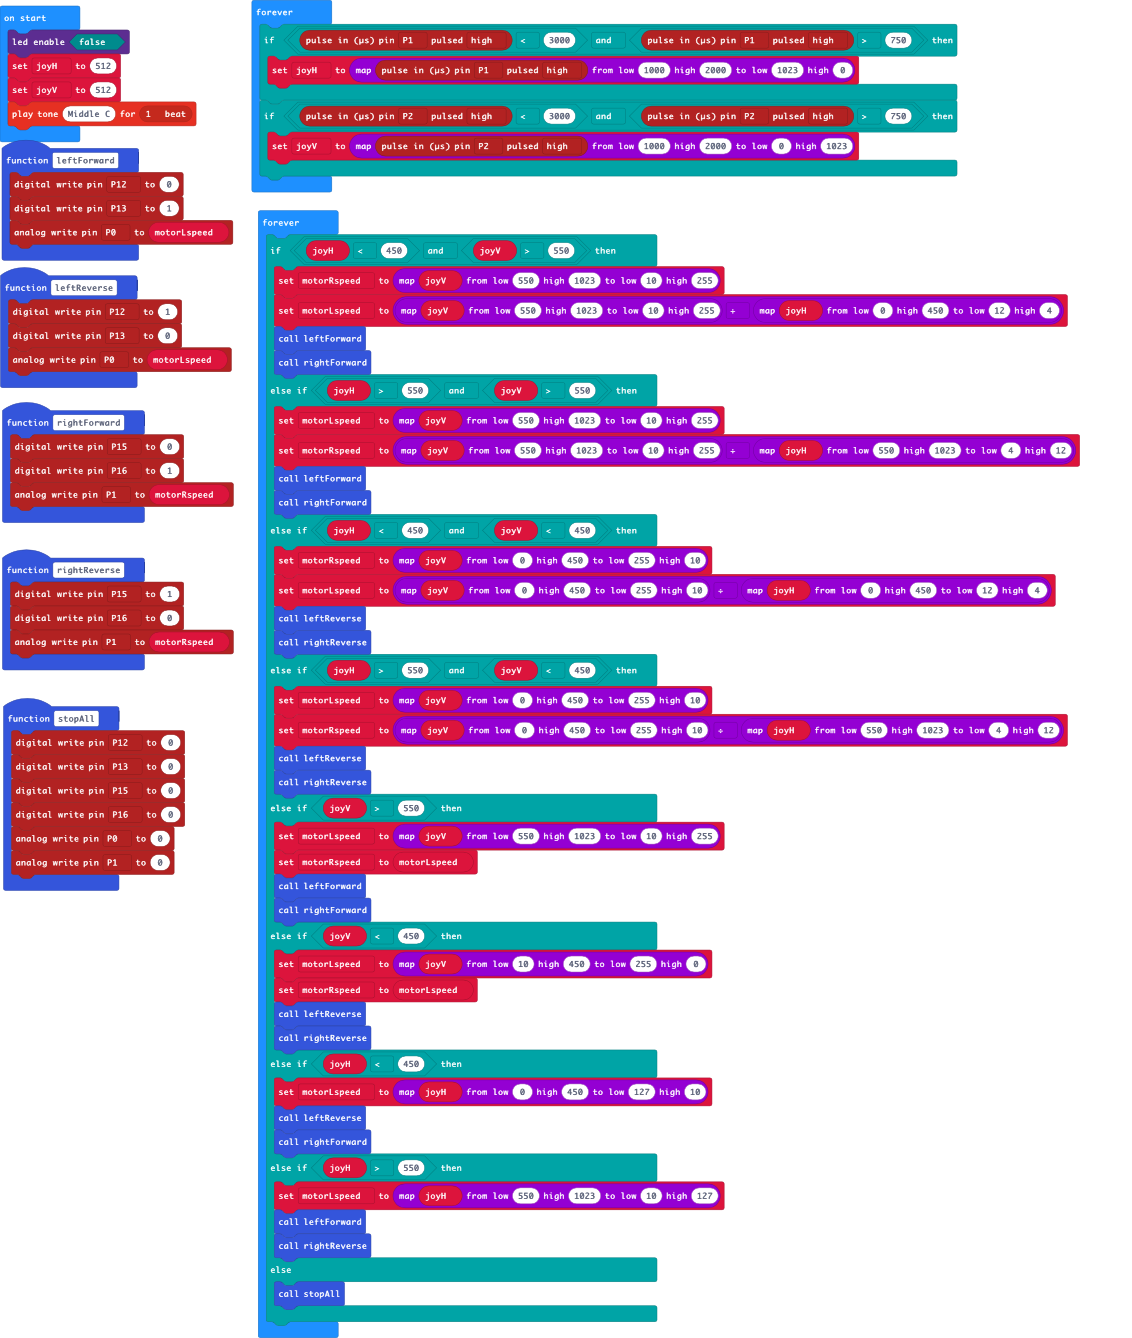
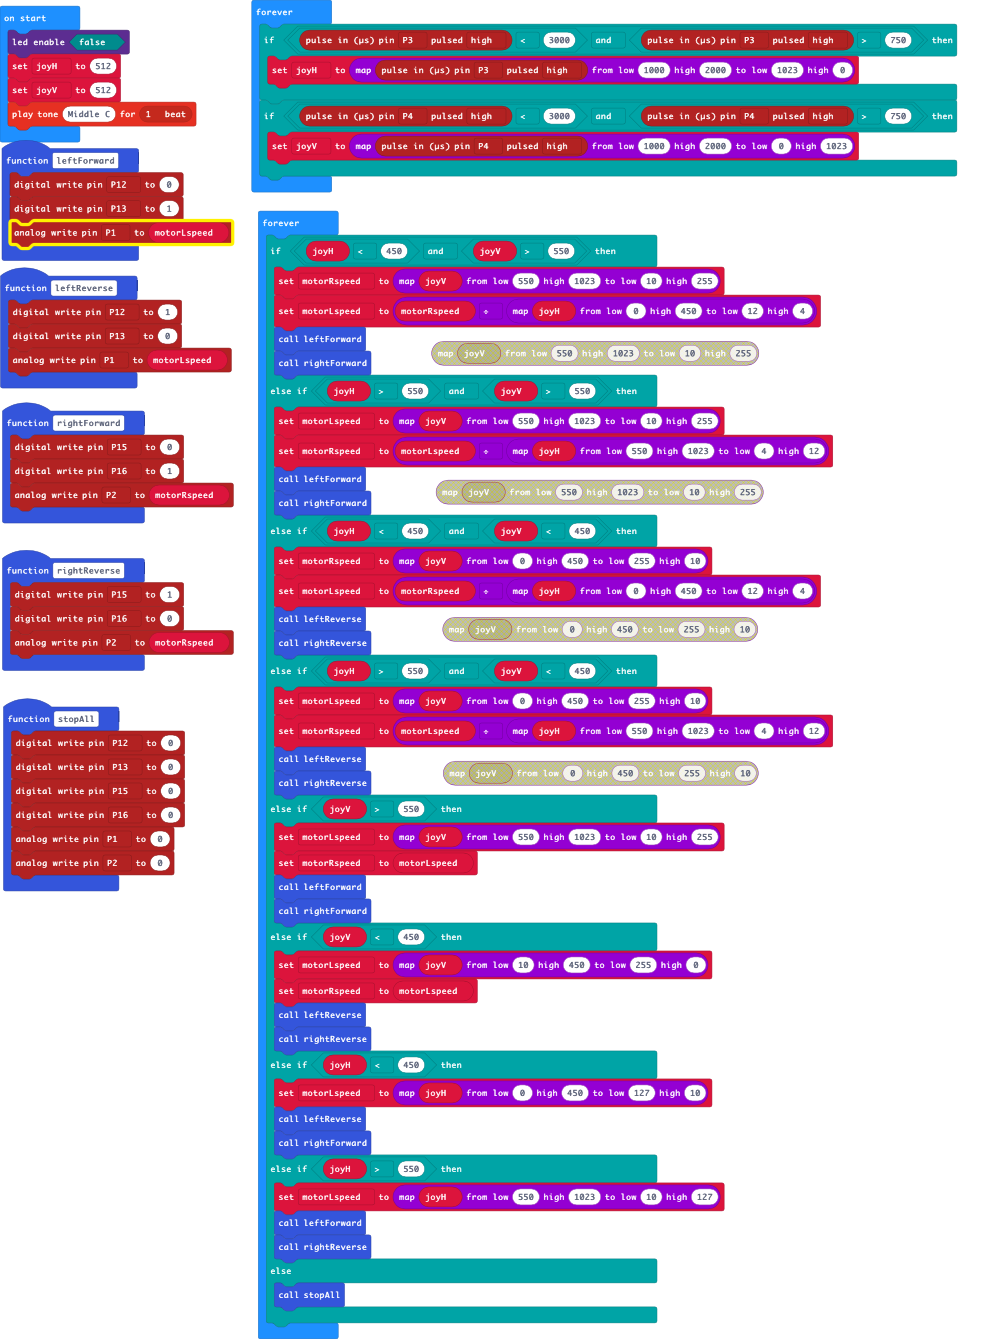
Changed I/O pin assignments and simplified joystick mapping

Changed region(s): [[0.0, 0.0, 0.9766, 1.0]]

diff --git a/main.ts b/main.ts
@@ -1,30 +1,30 @@
 function rightForward () {
     pins.digitalWritePin(DigitalPin.P15, 0)
     pins.digitalWritePin(DigitalPin.P16, 1)
-    pins.analogWritePin(AnalogPin.P1, motorRspeed)
+    pins.analogWritePin(AnalogPin.P2, motorRspeed)
 }
 function leftForward () {
     pins.digitalWritePin(DigitalPin.P12, 0)
     pins.digitalWritePin(DigitalPin.P13, 1)
-    pins.analogWritePin(AnalogPin.P0, motorLspeed)
+    pins.analogWritePin(AnalogPin.P1, motorLspeed)
 }
 function leftReverse () {
     pins.digitalWritePin(DigitalPin.P12, 1)
     pins.digitalWritePin(DigitalPin.P13, 0)
-    pins.analogWritePin(AnalogPin.P0, motorLspeed)
+    pins.analogWritePin(AnalogPin.P1, motorLspeed)
 }
 function stopAll () {
     pins.digitalWritePin(DigitalPin.P12, 0)
     pins.digitalWritePin(DigitalPin.P13, 0)
     pins.digitalWritePin(DigitalPin.P15, 0)
     pins.digitalWritePin(DigitalPin.P16, 0)
-    pins.analogWritePin(AnalogPin.P0, 0)
     pins.analogWritePin(AnalogPin.P1, 0)
+    pins.analogWritePin(AnalogPin.P2, 0)
 }
 function rightReverse () {
     pins.digitalWritePin(DigitalPin.P15, 1)
     pins.digitalWritePin(DigitalPin.P16, 0)
-    pins.analogWritePin(AnalogPin.P1, motorRspeed)
+    pins.analogWritePin(AnalogPin.P2, motorRspeed)
 }
 let motorLspeed = 0
 let motorRspeed = 0
@@ -33,32 +33,32 @@ let joyH = 512
 let joyV = 512
 music.playTone(262, music.beat(BeatFraction.Whole))
 basic.forever(function () {
-    if (pins.pulseIn(DigitalPin.P1, PulseValue.High) < 3000 && pins.pulseIn(DigitalPin.P1, PulseValue.High) > 750) {
-        joyH = Math.map(pins.pulseIn(DigitalPin.P1, PulseValue.High), 1000, 2000, 1023, 0)
+    if (pins.pulseIn(DigitalPin.P3, PulseValue.High) < 3000 && pins.pulseIn(DigitalPin.P3, PulseValue.High) > 750) {
+        joyH = Math.map(pins.pulseIn(DigitalPin.P3, PulseValue.High), 1000, 2000, 1023, 0)
     }
-    if (pins.pulseIn(DigitalPin.P2, PulseValue.High) < 3000 && pins.pulseIn(DigitalPin.P2, PulseValue.High) > 750) {
-        joyV = Math.map(pins.pulseIn(DigitalPin.P2, PulseValue.High), 1000, 2000, 0, 1023)
+    if (pins.pulseIn(DigitalPin.P4, PulseValue.High) < 3000 && pins.pulseIn(DigitalPin.P4, PulseValue.High) > 750) {
+        joyV = Math.map(pins.pulseIn(DigitalPin.P4, PulseValue.High), 1000, 2000, 0, 1023)
     }
 })
 basic.forever(function () {
     if (joyH < 450 && joyV > 550) {
         motorRspeed = Math.map(joyV, 550, 1023, 10, 255)
-        motorLspeed = Math.map(joyV, 550, 1023, 10, 255) / Math.map(joyH, 0, 450, 12, 4)
+        motorLspeed = motorRspeed / Math.map(joyH, 0, 450, 12, 4)
         leftForward()
         rightForward()
     } else if (joyH > 550 && joyV > 550) {
         motorLspeed = Math.map(joyV, 550, 1023, 10, 255)
-        motorRspeed = Math.map(joyV, 550, 1023, 10, 255) / Math.map(joyH, 550, 1023, 4, 12)
+        motorRspeed = motorLspeed / Math.map(joyH, 550, 1023, 4, 12)
         leftForward()
         rightForward()
     } else if (joyH < 450 && joyV < 450) {
         motorRspeed = Math.map(joyV, 0, 450, 255, 10)
-        motorLspeed = Math.map(joyV, 0, 450, 255, 10) / Math.map(joyH, 0, 450, 12, 4)
+        motorLspeed = motorRspeed / Math.map(joyH, 0, 450, 12, 4)
         leftReverse()
         rightReverse()
     } else if (joyH > 550 && joyV < 450) {
         motorLspeed = Math.map(joyV, 0, 450, 255, 10)
-        motorRspeed = Math.map(joyV, 0, 450, 255, 10) / Math.map(joyH, 550, 1023, 4, 12)
+        motorRspeed = motorLspeed / Math.map(joyH, 550, 1023, 4, 12)
         leftReverse()
         rightReverse()
     } else if (joyV > 550) {
